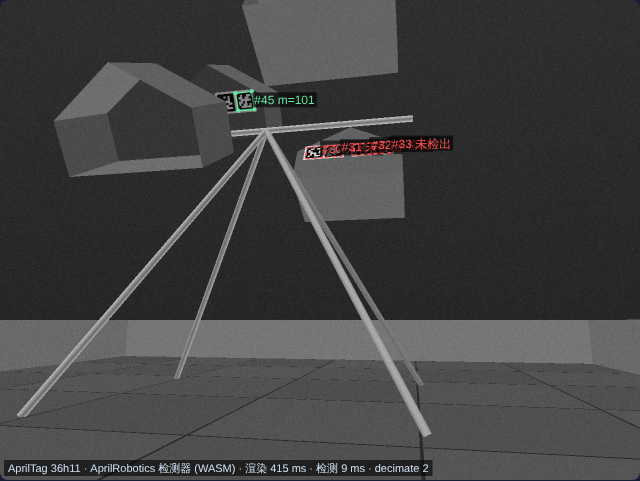
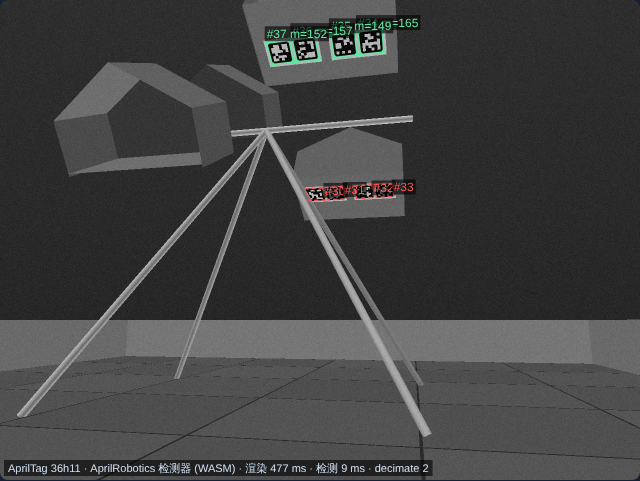
Move the AprilTag clusters to the CELL bottom face
The clusters belong on the CELL's bottom (the 20 x 12 in clear panel along the
opening's flat lower edge, which faces the TILES when the CELL is up), not on
its back panel. Per Figure 9-15 the tag centreline is 7.188 in from the
opening edge, and per the official CAD the panel sits 1.1 cm inside the rim;
every tag corner now lies within 1.2 mm of the CAD panel. A shooter now sees
its target HIVE's two clusters, the one under the target CELL facing it.

Claude-Session: https://claude.ai/code/session_01UaVEWPoE9jwWbVmWtMaCgK

diff --git a/localization.js b/localization.js
@@ -15,14 +15,15 @@ function defaultCamera(){return {imageWidth:640,imageHeight:480,hfovDeg:70,mount
 function intrinsics(cam){let fx=cam.imageWidth/2/Math.tan(cam.hfovDeg*DEG/2);return {fx,fy:fx,cx:cam.imageWidth/2,cy:cam.imageHeight/2}}
 
 // Official layout (Competition Manual TU07 §9.9, Figures 9-15 to 9-17): each CELL carries one AprilTag Cluster of
-// four tags on its bottom face (the outside of the back panel), facing away from the opening, with the sticker's
-// bottom edge toward the field centre. Tag centres sit ±2.75 in and ±6.5 in from the cluster centre along X, and
-// 0.188 in from the back panel's middle toward its front (flat) edge: the reference holes are 9.938 in from the front
-// edge and the tag centreline is 2.75 in above them.
+// four tags on its bottom face, the 20 × 12 in clear panel along the opening's flat lower edge, facing down toward the
+// TILES when the CELL is up, with the sticker's bottom edge toward the field centre (toward the CELL's back).
+// Tag centres sit ±2.75 in and ±6.5 in from the cluster centre along X. The reference holes are 9.938 in from the
+// CELL front (the opening edge) and the tag centreline is 2.75 in nearer the front, so 7.188 in from the opening.
+// In the official CAD the clear bottom panel sits 1.1 cm inside the rim; the sticker is on its outer face.
 // The simulator's +Y is the audience side: in Figure 9-17 the starting NECTAR (upward CELLs) are in the red audience
 // CELL and the blue far CELL, which here are red +Y and blue −Y. That makes the simulator frame a mirror image of the
 // field in Y, so the IDs follow Figure 9-17's left-to-right order along X, and each tag is drawn readable from below.
-const HIVE_OFFSET=25.5*IN/2,CELL_OFFSET=.4075,PIVOT_Z=43.95*IN,OPENING_Z=1.5003,CELL_PITCH=Math.PI/3,CELL_DEPTH=12*IN,CLUSTER_V=-.188*IN;
+const HIVE_OFFSET=25.5*IN/2,CELL_OFFSET=.4075,PIVOT_Z=43.95*IN,OPENING_Z=1.5003,CELL_PITCH=Math.PI/3,CELL_H=14*IN,TAG_DEPTH=7.188*IN,BOTTOM_INSET=.011,STICKER_STANDOFF=.001;
 const CLUSTER_IDS={red:{'-1':[33,32,31,30],'1':[34,35,36,37]},blue:{'-1':[45,44,43,42],'1':[38,39,40,41]}},CLUSTER_X=[-6.5,-2.75,2.75,6.5].map(v=>v*IN);
 // A CELL's frame in its current pose, as index.html's cellGeometry/restCellGeometry: origin at the opening centre,
 // normal out of the opening, tangent along the opening from the flat edge toward the apex.
@@ -31,8 +32,10 @@ function cellFrame(name,s,up){let x=name==='red'?-HIVE_OFFSET:HIVE_OFFSET,o={x,y
  return {origin:{x,y:o.y*co+v*si,z:PIVOT_Z+v*co-o.y*si},normal:dir(n),tangent:dir(t)}}
 // All 16 tags for given upward sides ({red: ±1, blue: ±1}); the official start is red +1, blue −1.
 function defaultTags(hiveUp={red:1,blue:-1}){let tags=[];
- for(const name of ['red','blue'])for(const s of [-1,1]){let f=cellFrame(name,s,hiveUp[name]),c={x:f.origin.x,y:f.origin.y+f.tangent.y*CLUSTER_V-f.normal.y*(CELL_DEPTH+.002),z:f.origin.z+f.tangent.z*CLUSTER_V-f.normal.z*(CELL_DEPTH+.002)};
-  let normal={x:-f.normal.x,y:-f.normal.y,z:-f.normal.z},up={x:-f.tangent.x,y:-f.tangent.y,z:-f.tangent.z};
+ for(const name of ['red','blue'])for(const s of [-1,1]){let f=cellFrame(name,s,hiveUp[name]),along=-CELL_H/2+BOTTOM_INSET-STICKER_STANDOFF;
+  // From the opening centre: down to the flat edge (and back up by the panel inset), then into the CELL to the tag centreline.
+  let c={x:f.origin.x,y:f.origin.y+f.tangent.y*along-f.normal.y*TAG_DEPTH,z:f.origin.z+f.tangent.z*along-f.normal.z*TAG_DEPTH};
+  let normal={x:-f.tangent.x,y:-f.tangent.y,z:-f.tangent.z},up={...f.normal};
   CLUSTER_IDS[name][s].forEach((id,k)=>tags.push({id,hive:name,side:s,cluster:`${name}${s>0?'+':'-'}`,x:c.x+CLUSTER_X[k],y:c.y,z:c.z,normal,up,size:TAG_SIZE}))}
  return tags.sort((a,b)=>a.id-b.id)}
 // The four combinations of HIVE poses, for when the robot must tell from the tags which way each HIVE is tipped.
@@ -177,6 +180,6 @@ function localize({robot,camera,tags=defaultTags(),layouts=[{tags}],pixelNoise=.
  return {estimate:est,hiveUp:chosen&&chosen.hiveUp,detections:last.detections,rejected:last.rejected,camera:last.camera,cameraPose:last.cameraPose,framesUsed:frameEstimates.filter(Boolean).length,
   error:est?{x:est.x-robot.x,y:est.y-robot.y,position:Math.hypot(est.x-robot.x,est.y-robot.y),headingDeg:wrap((est.headingDeg-robot.headingDeg)*DEG)/DEG}:null}}
 
-const api={TAG_SIZE,defaultCamera,defaultTags,hiveLayouts,cellFrame,tagFrame,estimateBest,intrinsics,tagCorners,cameraPose,project,toCamera,detect,estimate,localize,createPoseFilter,qualityGate};
+const api={TAG_SIZE,BOTTOM_INSET,defaultCamera,defaultTags,hiveLayouts,cellFrame,tagFrame,estimateBest,intrinsics,tagCorners,cameraPose,project,toCamera,detect,estimate,localize,createPoseFilter,qualityGate};
 if(typeof module!=='undefined'&&module.exports)module.exports=api;else root.FiducialLocalizer=api;
 })(typeof window!=='undefined'?window:globalThis);

diff --git a/localization.test.js b/localization.test.js
@@ -15,9 +15,9 @@ for (const [ids, hive, side] of [[[30,31,32,33],'red',-1],[[34,35,36,37],'red',1
 // Figure 9-17 order along X: 33 32 31 30 | 45 44 43 42 on the far side, 34 35 36 37 | 38 39 40 41 on the audience side.
 const xOf = id => tags.find(t => t.id === id).x;
 for (const row of [[33,32,31,30,45,44,43,42],[34,35,36,37,38,39,40,41]]) row.slice(1).forEach((id,k) => assert.ok(xOf(id) > xOf(row[k]), `ID ${id} lies right of ${row[k]}`));
-// The tags tip with their HIVE: upward CELL bottoms face down, toward the field centre.
+// The tags tip with their HIVE: an upward CELL's bottom faces down toward the TILES and out toward its shooters.
 const up = tags.filter(t => (t.hive === 'red' && t.side === 1) || (t.hive === 'blue' && t.side === -1));
-assert.ok(up.every(t => t.normal.z < -.4 && Math.sign(t.normal.y) === -t.side), 'an upward CELL’s cluster faces down and toward the centre');
+assert.ok(up.every(t => t.normal.z < -.8 && Math.sign(t.normal.y) === t.side), 'an upward CELL’s cluster faces down and outward');
 const tipped = L.defaultTags({red:-1, blue:-1});
 assert.ok(Math.hypot(tipped[0].x-tags[0].x, tipped[0].y-tags[0].y, tipped[0].z-tags[0].z) > .1, 'tipping the red HIVE moves tag 30');
 assert.ok(tipped.slice(8).every((t,k) => t.y === tags[8+k].y && t.z === tags[8+k].z), 'tipping red leaves the blue tags in place');
@@ -36,10 +36,11 @@ const init = L.detect({robot:poses[0], pixelNoise:0});
 const fromOne = L.estimate(init.detections.slice(0,1), {maxIterations:0});
 assert.ok(Math.hypot(fromOne.x-poses[0].x, fromOne.y-poses[0].y) < 1e-6, 'the heading-scan initial pose must be exact from a single tilted tag');
 
-// The reported 1σ must match the actual error spread (normalized RMS near 1).
+// The reported 1σ must match the actual error spread (normalized RMS near 1); 2 px noise keeps the filter's
+// measurement floor out of the way.
 const z = [];
 for (const robot of poses) for (let seed = 1; seed < 80; seed++) {
-  const r = L.localize({robot, pixelNoise:.5, seed});
+  const r = L.localize({robot, pixelNoise:2, seed});
   z.push(r.error.x/r.estimate.std.x, r.error.y/r.estimate.std.y, r.error.headingDeg/r.estimate.std.headingDeg);
 }
 const nrms = Math.sqrt(z.reduce((s,v)=>s+v*v,0)/z.length);
@@ -99,12 +100,12 @@ require('./vendor/apriltag-wasm.js')().then(Module => {
     d.corners.forEach((q,i) => assert.ok(Math.hypot(q.u-ideal[i].u, q.v-ideal[i].v) < .6, `detector corner ${i} of tag ${d.id} must match the projected corner in order`));
   }
   assert.ok(clean.error.position < .015 && Math.abs(clean.error.headingDeg) < .3, 'pixel pipeline pose error must be about 1 cm: ' + JSON.stringify(clean.error));
-  assert.equal(clean.hiveUp.blue, -1, 'the blue cluster in view must reveal the blue HIVE pose');
+  assert.equal(clean.hiveUp.red, 1, 'the red clusters in view must reveal the red HIVE pose');
 
   const coarse = C.localizeFromImage({detector, robot, layouts, effects:{noise:0}, detectorOptions:{decimate:2}});
-  assert.ok(coarse.detections.length < clean.detections.length, '3.25 in tags at 2 m are too small for decimate 2 at 640×480');
+  assert.ok(coarse.detections.length < clean.detections.length, 'at 640×480 decimate 2 loses the farther cluster of small 3.25 in tags');
   const hd = C.localizeFromImage({detector, robot, layouts, camera:{imageWidth:1280, imageHeight:800}, effects:{supersample:1}, detectorOptions:{decimate:2}});
-  assert.ok(hd.detections.length >= 8 && hd.error.position < .015, '1280×800 with decimate 2 must see both clusters');
+  assert.ok(hd.detections.length >= 4 && hd.error.position < .015, '1280×800 with decimate 2 must localize from the CELL tags');
 
   const noisy = C.localizeFromImage({detector, robot, layouts, effects:{noise:4, seed:2}, detectorOptions:{decimate:1}, frames:3});
   assert.ok(noisy.error.position < .03, 'sensor noise must keep the error within 3 cm');

diff --git a/collision.test.js b/collision.test.js
@@ -114,13 +114,15 @@ api.reset();
 const seen=api.localize({x:-0.6,y:1.8,yawDeg:-78.7,pixelNoise:0,frames:1});
 assert.ok(seen.detectedTagIds.length>=4,'a shooting pose must see a CELL tag cluster');
 assert.ok(seen.error.position<1e-6&&Math.abs(seen.aim.yawErrDeg)<1e-6,'page localization without noise must be exact');
-assert.deepEqual({...seen.hiveUp},{red:1,blue:-1},'the tags must reveal the starting HIVE poses');
+assert.deepEqual({...seen.hiveUp},{red:1,blue:null},'the red clusters in view must reveal the red HIVE pose; blue is not seen');
 const tags=api.getTags();
 assert.deepEqual([...tags.map(t=>t.id)],Array.from({length:16},(_,k)=>30+k),'Manual §9.9: tag IDs 30–45, four per CELL');
 assert.ok(tags.every(t=>Math.abs(t.size-3.25*.0254)<1e-9),'tags are 3.25 in');
-// Every tag lies on the outside of its CELL's back panel (the CELL bottom), facing away from the opening.
-const onBottom=vm.runInContext(`(()=>currentTags().map(t=>{let g=currentCellGeometry(t.hive,t.side),b=g.back[0],d=dot(sub(t,b),g.normal);return {d,facing:dot(t.normal,g.normal)}}))()`,sandbox);
-assert.ok(onBottom.every(o=>o.d<0&&o.d>-.005&&o.facing<-.999),'tags must sit on the CELL bottom face, facing out of it: '+JSON.stringify(onBottom.slice(0,4)));
+// Every tag lies on the CELL's bottom face (the panel along the opening's flat edge, 1.1 cm inside the rim as in the
+// official CAD), facing out of the CELL, between the opening and the back.
+const onBottom=vm.runInContext(`(()=>currentTags().map(t=>{let g=currentCellGeometry(t.hive,t.side),edge=g.aperture[0],out={x:-g.tangent.x,y:-g.tangent.y,z:-g.tangent.z};
+  return {d:dot(sub(t,edge),out),depth:-dot(sub(t,edge),g.normal),facing:dot(t.normal,out)}}))()`,sandbox);
+assert.ok(onBottom.every(o=>o.d<-.009&&o.d>-.011&&Math.abs(o.depth-7.188*.0254)<1e-6&&o.facing>.999),'tags must sit on the CELL bottom face, facing out of it: '+JSON.stringify(onBottom.slice(0,4)));
 const legBlocked=vm.runInContext('sightBlocked({x:-1.2,y:.362,z:.3},{x:1.2,y:.362,z:.3})',sandbox)&&!vm.runInContext('sightBlocked({x:-1.2,y:1.2,z:.3},{x:1.2,y:1.2,z:.3})',sandbox);
 assert.equal(legBlocked,true,'a sight line through a HIVE frame leg must be occluded, and a clear one must not');
 const visionShot=api.solve({x:-0.6,y:1.8,z:0.55,yawDeg:-78.7,speed:6.5,ballType:'pollen',useVision:true,pixelNoise:0.5,frames:3,seed:4});

diff --git a/index.html b/index.html
@@ -294,9 +294,11 @@ function visionCamera(){let [w,h]=(el.camRes?.value||'640x480').split('x').map(N
 function aimError(e){if(!e)return null;let t=target(),r=robotPose(),deg=180/Math.PI,trueBearing=Math.atan2(t.y-r.y,t.x-r.x)*deg,estBearing=Math.atan2(t.y-e.y,t.x-e.x)*deg;
  let yawErrDeg=wrapDeg(r.headingDeg+estBearing-e.headingDeg-trueBearing),range=Math.hypot(t.x-r.x,t.y-r.y);return {yawErrDeg,rangeError:Math.hypot(t.x-e.x,t.y-e.y)-range,lateralAtTarget:range*Math.sin(yawErrDeg/deg)}}
 function imageEffects(){return {supersample:visionCamera().imageWidth>700?1:2,noise:Math.max(0,num('sensorNoise')),exposure:num('exposureGain'),exposureMs:num('exposureMs'),speed:num('driveSpeed'),turnRateDegS:num('turnRate'),defocus:Math.max(0,num('defocus')),seed:visionSeed}}
-// Scene seen by the rendered camera: CELL back and side panels (the opening is left open) and the frame legs and crossbar.
+// Scene seen by the rendered camera: CELL back, bottom and side panels (the opening is left open) and the frame legs and crossbar.
 function cameraScene(){let polygons=[],cylinders=FRAME_LEGS.map(([a,b])=>({a,b,radius:LEG_RADIUS,albedo:.75}));cylinders.push({a:{x:-frameW/2,y:0,z:pivotZ},b:{x:frameW/2,y:0,z:pivotZ},radius:LEG_RADIUS,albedo:.8});
- for(let name of ['red','blue'])for(let s of [-1,1]){let g=currentCellGeometry(name,s),albedo=name==='red'?.42:.36;polygons.push({points:g.back,albedo});g.aperture.forEach((p,i)=>{let j=(i+1)%g.aperture.length;polygons.push({points:[p,g.aperture[j],g.back[j],g.back[i]],albedo:albedo+.08})})}
+ for(let name of ['red','blue'])for(let s of [-1,1]){let g=currentCellGeometry(name,s),albedo=name==='red'?.42:.36;polygons.push({points:g.back,albedo});g.aperture.forEach((p,i)=>{let j=(i+1)%g.aperture.length,quad=[p,g.aperture[j],g.back[j],g.back[i]];
+  // The clear bottom panel, which carries the tag cluster, sits inside the rim as in the official CAD.
+  if(i===0)quad=quad.map(q=>({x:q.x+g.tangent.x*Loc.BOTTOM_INSET,y:q.y+g.tangent.y*Loc.BOTTOM_INSET,z:q.z+g.tangent.z*Loc.BOTTOM_INSET}));polygons.push({points:quad,albedo:albedo+.08})})}
  return {polygons,cylinders}}
 function robotPose(){return {x:num('x'),y:num('y'),headingDeg:num('yaw')}}
 // A sight line is blocked by the HIVE frame legs or a CELL; samples 3 cm apart with a 1.6 cm probe leave no gaps in thin skins.

diff --git a/README.md b/README.md
@@ -57,22 +57,22 @@ render camera frame ─► AprilRobotics detector ─► filter decodes ─► u
 
 ### Tag layout (Competition Manual TU07 §9.9)
 
-- Sixteen 3.25 in (8.25 cm) tag36h11 tags, in four AprilTag Clusters of four on one sticker each. Each cluster is on the **bottom face of a CELL** (the outside of its back panel), facing out of the CELL, with the sticker's bottom edge toward the field centre (Figure 9-16).
-- Within a cluster the tag centres are ±2.75 in and ±6.5 in from the cluster centre (Figure 9-15). The reference holes are 9.938 in from the CELL's front edge and the tag centreline 2.75 in above them, which puts the tags 0.19 in from the panel middle.
+- Sixteen 3.25 in (8.25 cm) tag36h11 tags, in four AprilTag Clusters of four on one sticker each. Each cluster is on the **bottom face of a CELL**: the 20 × 12 in clear panel along the opening's flat lower edge. When the CELL is up, this panel faces down toward the TILES. The sticker's bottom edge points toward the field centre, i.e. toward the CELL's back (Figure 9-16). In the official CAD the panel sits 1.1 cm inside the rim; the tags are on its outer face, and every tag corner lies within 1.2 mm of the CAD panel.
+- Within a cluster the tag centres are ±2.75 in and ±6.5 in from the cluster centre along X (Figure 9-15). The reference holes are 9.938 in from the CELL front (the opening edge), and the tag centreline is 2.75 in nearer the front: 7.19 in into the CELL.
 - IDs (Figure 9-17): red CELL away from the audience 30–33, red audience CELL 34–37, blue audience CELL 38–41, blue CELL away from the audience 42–45.
-- The tags **tip with their HIVE**. An upward CELL's cluster faces down and toward the centre. The downward CELL's cluster faces outward and slightly up. A robot shooting into an upward CELL therefore sees the clusters on the other CELL of each HIVE: from the +Y side, 30–33 and 42–45 at the start.
+- The tags **tip with their HIVE**. The cluster under an upward CELL faces down and out toward that CELL's shooters, so a robot aiming at a HIVE sees that HIVE's two clusters. At the start, from the +Y side, it sees 34–37 under the target CELL and 30–33 under red's lower CELL.
 - Since the tag positions depend on how each HIVE is tipped, the solver fits all four HIVE-pose combinations and keeps the one that explains the corners best. It also reports which CELLs are up; a HIVE with no tag in view stays unknown.
 - The simulator's +Y is the audience side. In Figure 9-17 the starting NECTAR, which sit in the upward CELLs, are in the red audience CELL and the blue CELL away from the audience; here those are red +Y and blue −Y. The simulator frame is therefore a mirror image of the field in Y. Tag IDs follow the figure's left-to-right order along X, and each tag is drawn readable from in front.
 
-| Red shot, 640×480, decimate 1: tags 30 and 45, aim error 0.12° | Same, 1280×800, decimate 2: 30–33 and 45, aim error 0.09° | 640×480 with decimate 2: only tag 45, rejected by the gate |
+| Red shot, 640×480, decimate 1: 7 tags, error 0.1 cm, aim error 0.002° | Same, 1280×800, decimate 2: 4 tags (the upper cluster leaves the narrower vertical view) | 640×480 with decimate 2: only the nearer cluster 34–37, still 0.1 cm |
 |---|---|---|
 | ![](docs/images/camera-red-shot.png) | ![](docs/images/camera-red-shot-1280.png) | ![](docs/images/camera-red-shot-decimate2.png) |
-| **Blue shot: 37, 38, 41, error 0.4 cm** | **After the red HIVE tips: shooting from −Y, red −Y up detected, aim error 0.001°** | **Turning at 60°/s: one tag left, 10 cm error, rejected by the gate** |
+| **Blue shot: 39–45, error 0.1 cm** | **After the red HIVE tips: shooting from −Y, red −Y up detected, aim error 0.01°** | **Turning at 60°/s: the far cluster is lost; 3.8 px of blur, rejected by the gate** |
 | ![](docs/images/camera-blue-shot.png) | ![](docs/images/camera-after-tip.png) | ![](docs/images/camera-turn60.png) |
 
 Green: accepted detections (raw corners; m is the decision margin). Orange: discarded decodes. Red dashed: in view geometrically but missed by the detector.
 
-**The tags are small.** At 2 m a 3.25 in tag spans about 15–20 px in a 640×480, 70° image, and it is seen at a steep angle. With the detector's `quad_decimate` 2, almost none decode at 640×480. Use `decimate` 1 (the page default; detection takes about 45 ms in WASM) or a 1280×720/800 camera with decimate 2.
+**The tags are small.** From a shooting position 1.5–2 m away a 3.25 in tag spans about 20–30 px in a 640×480, 70° image. With the detector's `quad_decimate` 2 only the nearer cluster decodes. `decimate` 1 (the page default; detection takes about 45 ms in WASM) also gets the farther cluster. At 1280×800 the vertical field of view is narrower, so tilt the camera up to keep both clusters in frame.
 
 - **Detector:** the [AprilRobotics apriltag](https://github.com/AprilRobotics/apriltag) C library, the library under the FTC SDK AprilTagProcessor, compiled to WebAssembly with family tag36h11, `quad_decimate` settable (default 1 here), `refine_edges` on and one thread. The page and the 3D view use the library's own tag36h11 images. `tools/apriltag-wasm/build.sh` rebuilds `vendor/apriltag-wasm.js` (one 184 KB file; license in `vendor/APRILTAG-LICENSE.txt`). Decodes with hamming > 0, decision margin < 10 or an ID outside 30–45 are discarded.
 - **Rendered frame (`camera-render.js`):** a software ray caster renders a 640×480, 1280×720 or 1280×800 grayscale image of the tiles and seams, the perimeter walls, the tags (black square plus the white ring), the CELL panels and the HIVE frame legs and crossbar. 640×480 uses 2×2 supersampling. Optional effects: motion blur (sub-frames over the exposure from the forward speed and turn rate), Brown–Conrady radial distortion `k1` (outside the lens image circle stays black), defocus blur, exposure gain and Gaussian sensor noise. A frame renders in about 0.4–0.9 s in the browser, so the page re-renders 180 ms after the last change. "Geometry + corner noise" mode (key M) skips rendering and is instant.
@@ -85,7 +85,7 @@ Green: accepted detections (raw corners; m is the decision margin). Orange: disc
 - **Vision aim:** tick "Aim using the vision pose estimate" (key V). *Solve angle* then uses an estimate only if it passes the gate. The search runs at the estimated position, the robot turns by (field yaw − estimated heading), and the shot is simulated from the true position. The result panel reports the **aim error**: the launch-direction error, the sideways miss it causes at the target, and the range error.
 
 Limits:
-- The cluster's position along the CELL is derived from the manual's figures, against this simulator's proxy back panel rather than the CAD skin.
+- The cluster's position along the CELL is derived from the manual's figures, and checked against the official CAD bottom panel; the depth along the CELL relies on reading "Front of Cell" in Figure 9-15 as the opening edge.
 - The simulator's Y axis is mirrored relative to the field (see above).
 - Lighting is a single directional light with no shadows, glare or rolling shutter.
 - Camera height, pitch and calibration are assumed exact.

diff --git a/README.zh-CN.md b/README.zh-CN.md
@@ -55,22 +55,22 @@
 
 ### 标签布置（竞赛手册 TU07 §9.9）
 
-- 16 个 3.25 in（8.25 cm）tag36h11 标签，分成 4 组 AprilTag Cluster，每组 4 个印在一张贴纸上。每组贴在 **CELL 底面**（背板外侧），朝 CELL 外，贴纸下边朝向场地中心（图 9-16）。
-- 组内标签中心距组中心 ±2.75 in 和 ±6.5 in（图 9-15）。定位孔距 CELL 前缘 9.938 in，标签中心线在定位孔上方 2.75 in，因此标签距背板中线 0.19 in。
+- 16 个 3.25 in（8.25 cm）tag36h11 标签，分成 4 组 AprilTag Cluster，每组 4 个印在一张贴纸上。每组贴在 **CELL 底面**：开口平直下边那一侧 20 × 12 in 的透明面板。CELL 朝上时这块面板朝下、对着地垫。贴纸下边朝向场地中心，也就是朝向 CELL 背板（图 9-16）。官方 CAD 中这块面板比边框缩进 1.1 cm；标签贴在面板外侧，每个标签角点距 CAD 面板都在 1.2 mm 以内。
+- 组内标签中心沿 X 距组中心 ±2.75 in 和 ±6.5 in（图 9-15）。定位孔距 CELL 前缘（开口边）9.938 in，标签中心线比定位孔更靠近前缘 2.75 in，即距开口 7.19 in。
 - ID（图 9-17）：红色远离观众侧 CELL 30–33，红色观众侧 CELL 34–37，蓝色观众侧 CELL 38–41，蓝色远离观众侧 CELL 42–45。
-- 标签 **随 HIVE 翻转**。朝上 CELL 的标签组朝下、朝向场地中心；朝下 CELL 的标签组朝外、略朝上。所以往朝上 CELL 射击的机器人，看到的是每个 HIVE 另一个 CELL 上的标签组：开局时从 +Y 侧看到 30–33 和 42–45。
+- 标签 **随 HIVE 翻转**。朝上 CELL 下方的标签组朝下、朝外，正对往这个 CELL 射击的机器人，所以瞄准某个 HIVE 时看到的是这个 HIVE 的两组标签。开局从 +Y 侧看到目标 CELL 下的 34–37 和红色下方 CELL 的 30–33。
 - 标签位置取决于 HIVE 的翻转状态，因此求解器对 4 种 HIVE 朝向组合分别拟合，取最能解释角点的一种，并给出哪个 CELL 朝上；没看到任何标签的 HIVE 记为未知。
 - 模拟器的 +Y 是观众侧。图 9-17 中开局的 NECTAR（在朝上的 CELL 里）位于红色观众侧 CELL 和蓝色远离观众侧 CELL，在本模拟器中即红 +Y、蓝 −Y。因此模拟器坐标在 Y 方向是场地的镜像。标签 ID 按图中沿 X 从左到右的顺序排列，每个标签从正面看都是正向图案。
 
-| 红方射击，640×480、decimate 1：30、45 号，瞄准误差 0.12° | 同位置 1280×800、decimate 2：30–33 和 45 号，瞄准误差 0.09° | 640×480 用 decimate 2：只剩 45 号，被门限拒绝 |
+| 红方射击，640×480、decimate 1：7 个标签，误差 0.1 cm，瞄准误差 0.002° | 同位置 1280×800、decimate 2：4 个标签（垂直视场较窄，上方一组出画） | 640×480 用 decimate 2：只检出较近的 34–37，误差仍为 0.1 cm |
 |---|---|---|
 | ![](docs/images/camera-red-shot.png) | ![](docs/images/camera-red-shot-1280.png) | ![](docs/images/camera-red-shot-decimate2.png) |
-| **蓝方射击：37、38、41 号，误差 0.4 cm** | **红 HIVE 翻转后：从 −Y 侧射击，判断出红 −Y 朝上，瞄准误差 0.001°** | **以 60°/s 转向：只剩 1 个标签，误差 10 cm，被门限拒绝** |
+| **蓝方射击：39–45 号，误差 0.1 cm** | **红 HIVE 翻转后：从 −Y 侧射击，判断出红 −Y 朝上，瞄准误差 0.01°** | **以 60°/s 转向：丢失较远一组；模糊 3.8 px，被门限拒绝** |
 | ![](docs/images/camera-blue-shot.png) | ![](docs/images/camera-after-tip.png) | ![](docs/images/camera-turn60.png) |
 
 绿色：采用的检测（原始角点，m 为解码余量）；橙色：丢弃的解码；红色虚线：几何上可见但检测器没检出。
 
-**标签很小。** 2 m 外的 3.25 in 标签在 640×480、70° 画面中只有约 15–20 px，而且视角很斜。检测器 `quad_decimate` 为 2 时，640×480 下几乎解不出来。应使用 `decimate` 1（页面默认；WASM 中检测约 45 ms），或 1280×720/800 相机配合 decimate 2。
+**标签很小。** 在 1.5–2 m 外的射击位置，3.25 in 标签在 640×480、70° 画面中约 20–30 px。检测器 `quad_decimate` 为 2 时只能解出较近的一组；`decimate` 1（页面默认；WASM 中检测约 45 ms）也能解出较远的一组。1280×800 的垂直视场较窄，相机要上仰一些才能把两组都拍进画面。
 
 - **检测器：** [AprilRobotics apriltag](https://github.com/AprilRobotics/apriltag) C 库，也就是 FTC SDK AprilTagProcessor 底层的库，编译为 WebAssembly；标签族 tag36h11，`quad_decimate` 可调（本页默认 1），开启 `refine_edges`，单线程。页面和三维视图里的标签图案也直接来自该库。`tools/apriltag-wasm/build.sh` 可重新生成 `vendor/apriltag-wasm.js`（单文件 184 KB，许可证见 `vendor/APRILTAG-LICENSE.txt`）。纠错位 > 0、解码余量 < 10 或 ID 不在 30–45 的解码会被丢弃。
 - **渲染图像（`camera-render.js`）：** 软件光线投射渲染 640×480、1280×720 或 1280×800 灰度图，包含地垫和接缝、围墙、标签（黑框加白边）、CELL 面板、HIVE 支架腿和横梁；640×480 用 2×2 超采样。可选效果：运动模糊（按前进速度和角速度在曝光时间内取多个子帧）、Brown–Conrady 径向畸变 `k1`（镜头成像圆外为黑）、失焦模糊、曝光增益和高斯传感器噪声。浏览器里渲染一帧约 0.4–0.9 s，所以页面在最后一次修改后 180 ms 才重新渲染；“几何 + 角点噪声”模式（M 键）不渲染，立即出结果。
@@ -83,7 +83,7 @@
 - **视觉瞄准：** 勾选“用视觉估计的位姿瞄准”（V 键）后，*自动求解角度* 只使用通过门限的估计。在估计位置上搜索，机器人按（场地水平角 − 估计朝向）转动，射击从真实位置模拟。结果栏给出 **瞄准误差**：发射方向误差、它在目标处造成的横向偏差，以及距离误差。
 
 局限：
-- 标签组沿 CELL 的位置是按手册图纸推算的，参照的是本模拟器的代理背板，不是 CAD 外壳。
+- 标签组沿 CELL 的位置是按手册图纸推算的，并已与官方 CAD 底面面板核对；沿 CELL 深度方向的位置依赖于把图 9-15 的“Front of Cell”理解为开口边。
 - 模拟器的 Y 轴与场地是镜像关系（见上文）。
 - 光照只有一个方向光，没有阴影、反光和卷帘快门。
 - 相机高度、俯仰和标定假定精确。
